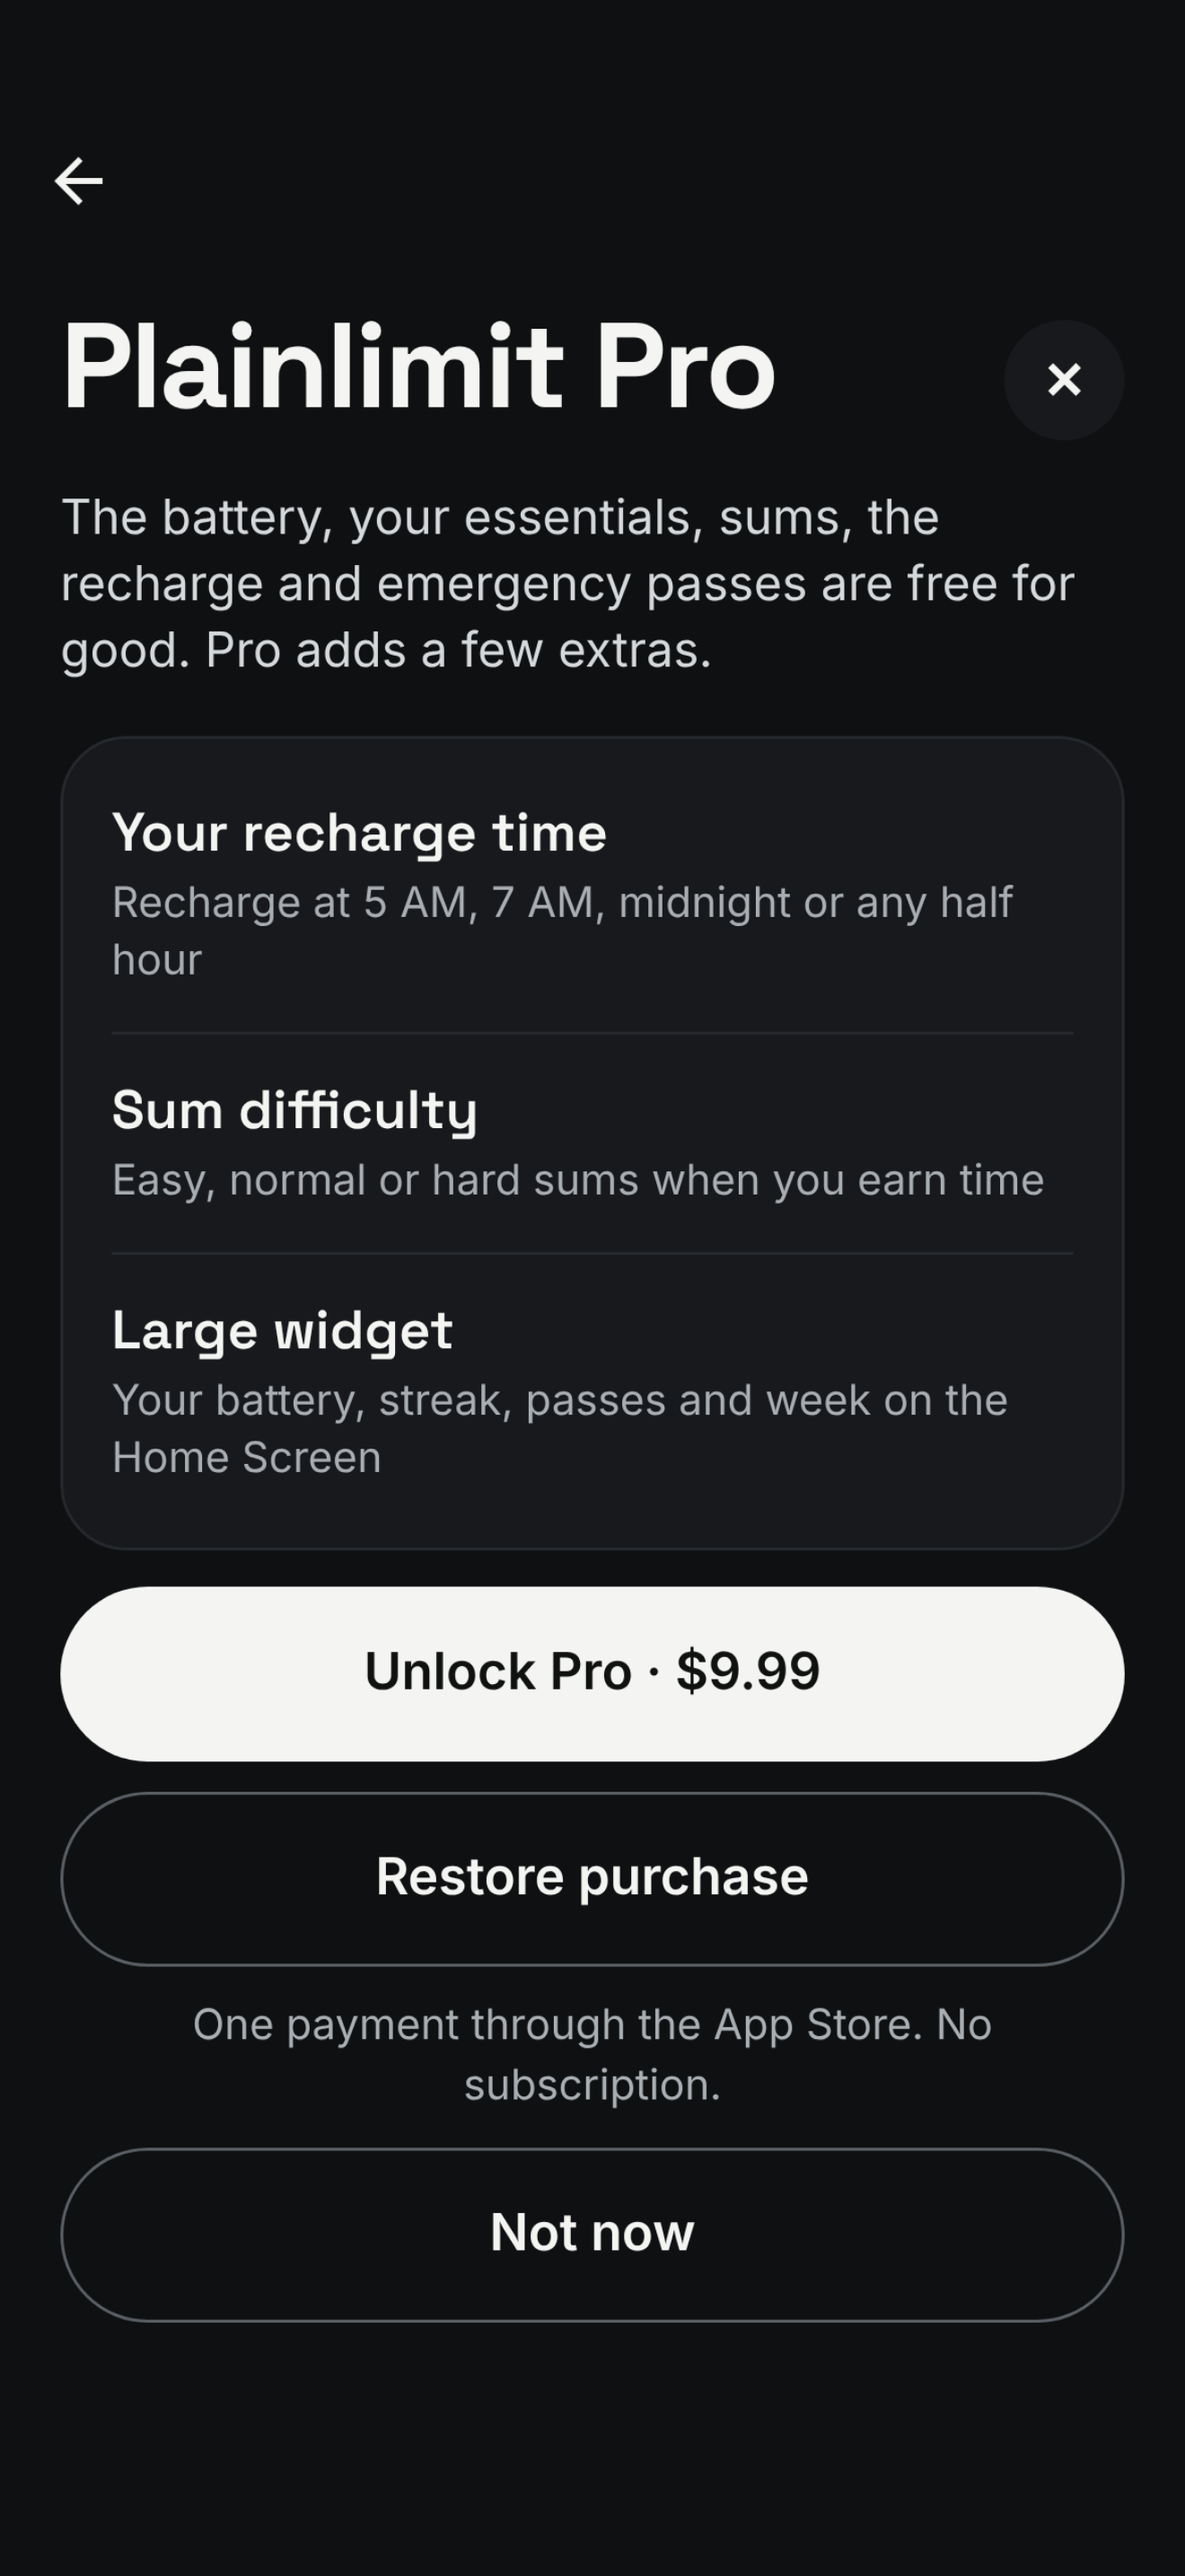
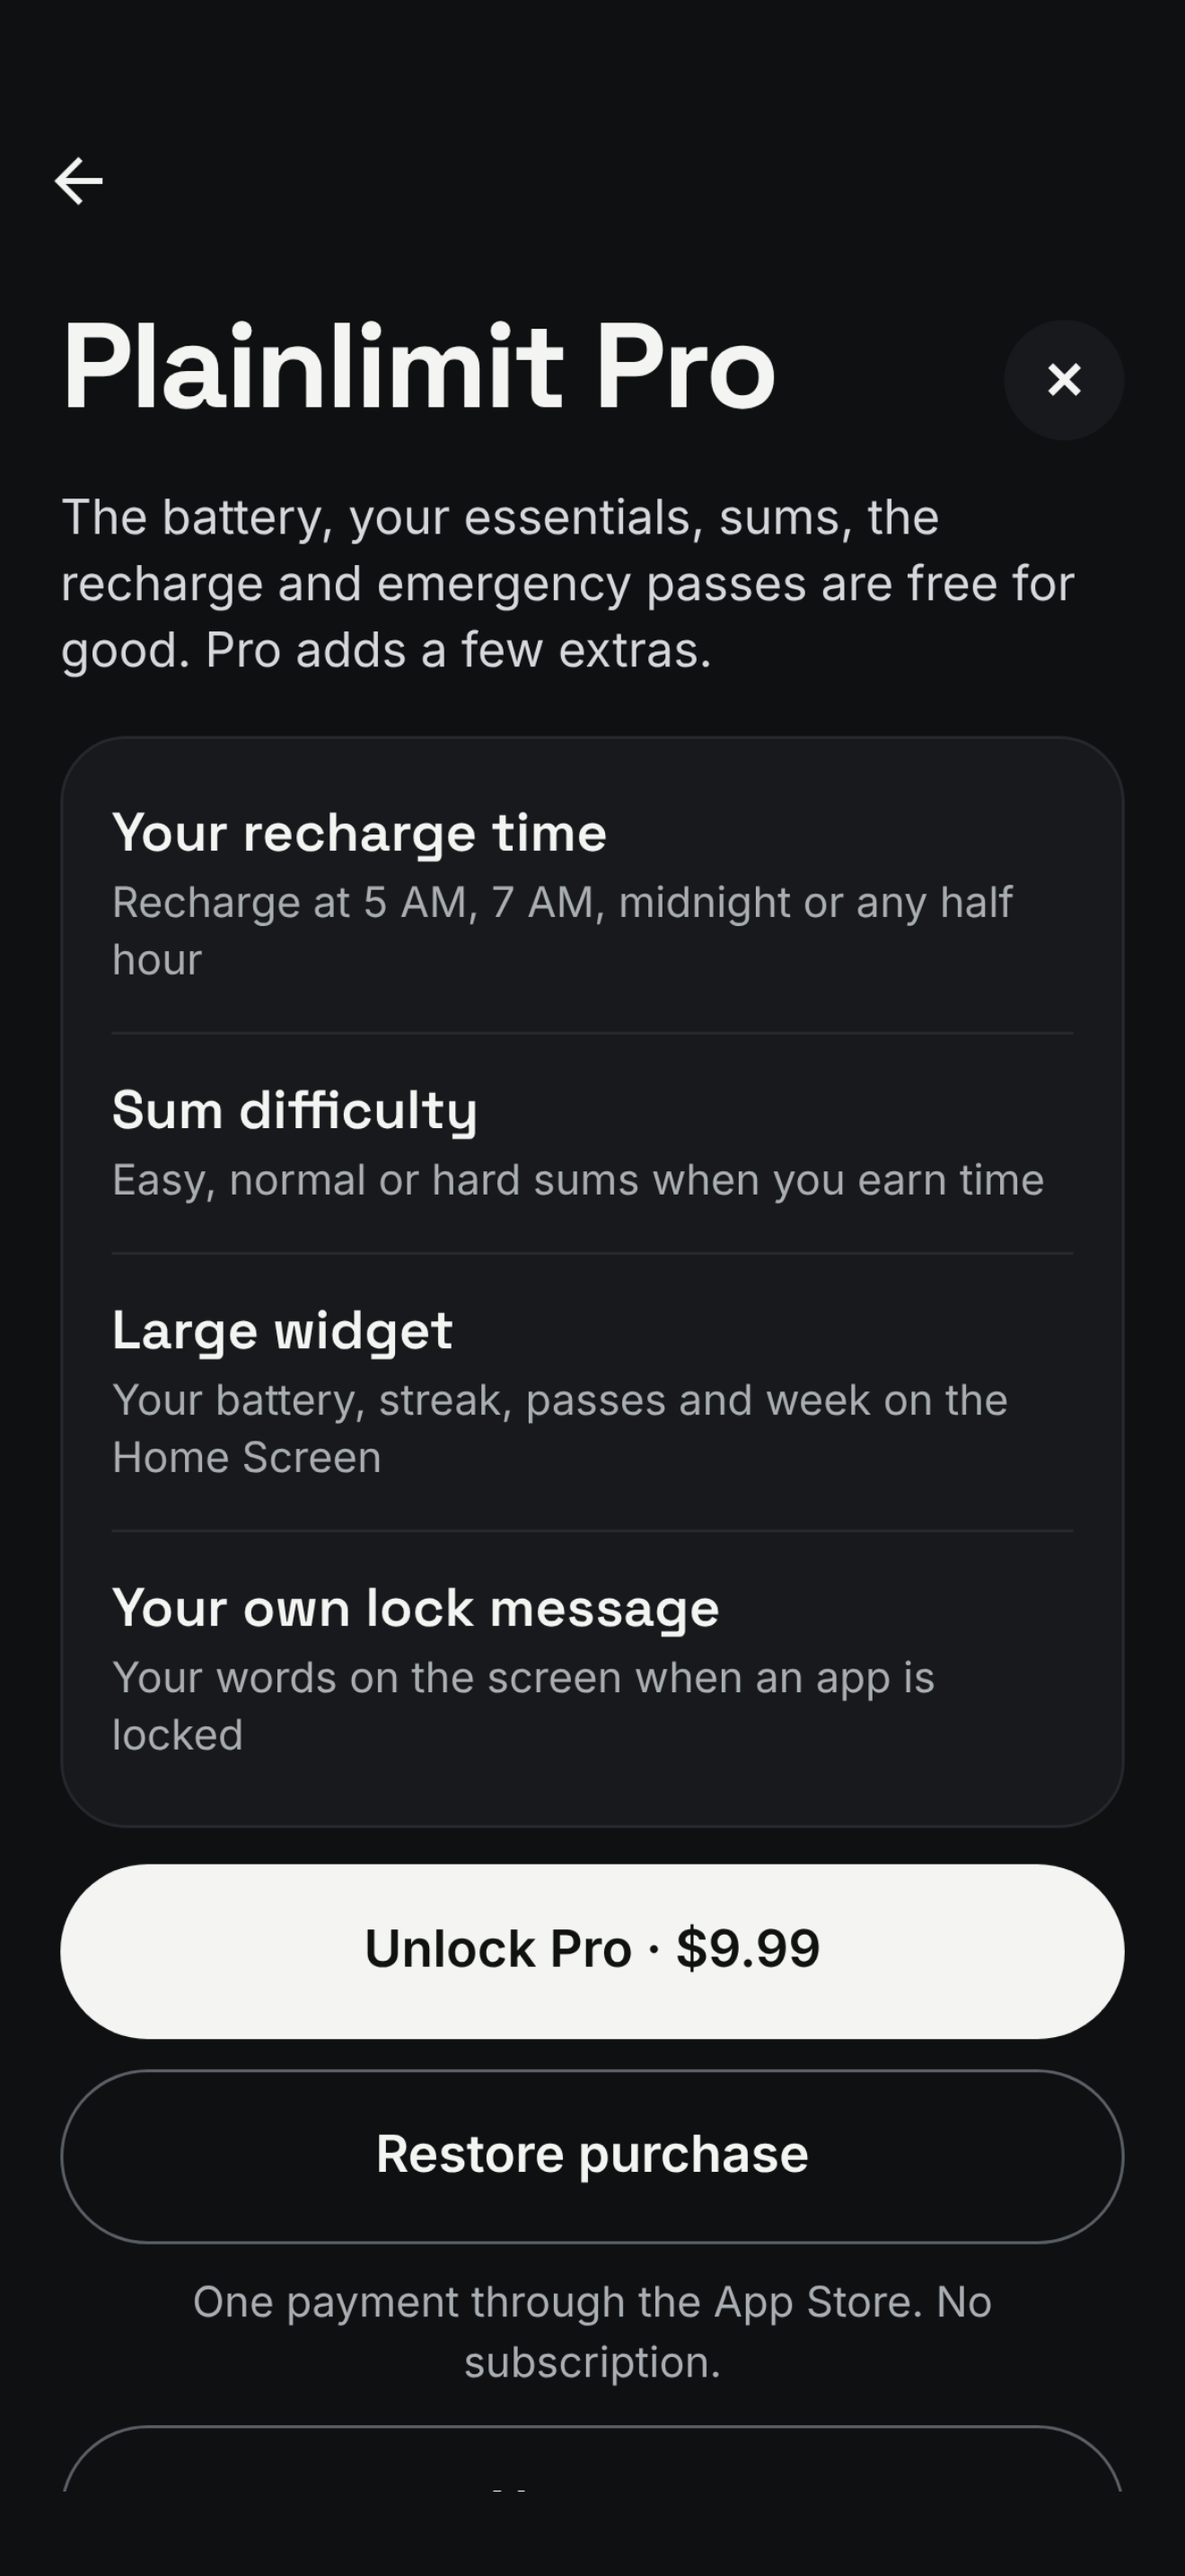
plainlimit 1.1: a lock message in one's own words is Pro
The ready-made lock messages come first and stay free, with 'No message'
among them. Writing one's own comes second and is Pro; a message typed before
stays until it is changed. The Pro screen, the store text and the store
pictures name the fourth Pro feature.

Claude-Session: https://claude.ai/code/session_01P4SSbJ2g8Qq7AhHS6aRZYP

Changed region(s): [[0.0311, 0.5896, 0.9629, 0.931], [0.0311, 0.8379, 0.0932, 0.8689], [0.9318, 0.8379, 0.9629, 0.8689]]

diff --git a/apps/plainlimit/src/app/lock-message.tsx b/apps/plainlimit/src/app/lock-message.tsx
@@ -1,21 +1,26 @@
+import { useRouter } from 'expo-router';
 import { useState } from 'react';
 import { Pressable, StyleSheet, Text, TextInput, View } from 'react-native';
 
 import { emptyCopy } from '@/domain/shield';
-import { LOCK_MESSAGE_MAX } from '@/domain/settings';
+import { LOCK_MESSAGE_IDEAS, LOCK_MESSAGE_MAX, isLockMessageIdea } from '@/domain/settings';
 import { tap } from '@/platform/haptics';
+import { usePro } from '@/pro/pro';
 import { store } from '@/state/store';
 import { Card, Label, Lead, Page, Title } from '@/ui/kit';
 import { c, display } from '@/ui/theme';
 import { useDay } from '@/ui/useDay';
 
-// Settings > Advanced > Lock message: the person's own words on the
-// screen that covers an app once the battery is empty (shield.ts).
-
-const IDEAS = ['What were you about to do instead?', 'You set this limit for a reason.', 'Text someone you miss.', 'Go outside. The feed will still be there tomorrow.'];
+// Settings > Advanced > Lock message: words on the screen that covers an app
+// once the battery is empty (shield.ts). The ready-made messages come first
+// and are free; words of one's own come second and are Pro (the owner,
+// 2026-11-21: "see the defaults, and then change it if they're Pro"). Up to
+// build 116 the text box came first and was free.
 
 export default function LockMessage() {
+  const router = useRouter();
   const { settings, day, accent } = useDay();
+  const isPro = usePro().isPro;
   // Typed text is kept here and saved as it changes, so the cursor never jumps.
   const [text, setText] = useState(settings.lockMessage ?? '');
   const change = (next: string) => {
@@ -24,49 +29,63 @@ export default function LockMessage() {
     store.setLockMessage(one);
   };
   const preview = emptyCopy({ ...settings, lockMessage: text }, day.topUps);
+  // Words of one's own: what is in the box, unless it is one of the ready-made ones.
+  const own = isLockMessageIdea(text) ? '' : text;
 
   return (
     <Page top={8}>
       <Title>Lock message</Title>
-      <Lead>Your own words on the screen you see when an app is locked. Something future you will listen to.</Lead>
-
-      <Card style={{ paddingTop: 14, paddingBottom: 16, gap: 10 }}>
-        <Label>Your message</Label>
-        <TextInput
-          testID="lock-message-input"
-          accessibilityLabel="Your message"
-          value={text}
-          onChangeText={change}
-          placeholder="Leave empty for no message"
-          placeholderTextColor={c.ink3}
-          multiline
-          maxLength={LOCK_MESSAGE_MAX}
-          returnKeyType="done"
-          blurOnSubmit
-          style={[styles.input, { borderColor: text ? accent : c.outline }]}
-        />
-        <View style={styles.counter}>
-          <Text style={styles.small}>Shows when the battery is empty</Text>
-          <Text style={styles.small}>
-            {text.length} / {LOCK_MESSAGE_MAX}
-          </Text>
-        </View>
-      </Card>
+      <Lead>A few words on the screen you see when an app is locked. Something future you will listen to.</Lead>
 
       <Card style={{ paddingTop: 14, paddingBottom: 16, gap: 8 }}>
-        <Label>Or pick one</Label>
-        {IDEAS.map((idea) => (
-          <Pressable
-            key={idea}
-            accessibilityRole="button"
-            onPress={() => {
-              tap();
-              change(idea);
-            }}
-            style={({ pressed }) => [styles.idea, pressed ? { opacity: 0.7 } : null]}>
-            <Text style={styles.ideaText}>{idea}</Text>
-          </Pressable>
+        <Label>Pick one</Label>
+        <Idea words="No message" chosen={text === ''} accent={accent} onPress={() => change('')} />
+        {LOCK_MESSAGE_IDEAS.map((idea) => (
+          <Idea key={idea} words={idea} chosen={text === idea} accent={accent} onPress={() => change(idea)} />
         ))}
+      </Card>
+
+      <Card style={{ paddingTop: 14, paddingBottom: 16, gap: 10 }}>
+        <Label>Or write your own</Label>
+        {isPro ? (
+          <>
+            <TextInput
+              testID="lock-message-input"
+              accessibilityLabel="Your own message"
+              value={own}
+              onChangeText={change}
+              placeholder="Your own words"
+              placeholderTextColor={c.ink3}
+              multiline
+              maxLength={LOCK_MESSAGE_MAX}
+              returnKeyType="done"
+              blurOnSubmit
+              style={[styles.input, { borderColor: own ? accent : c.outline }]}
+            />
+            <View style={styles.counter}>
+              <Text style={styles.small}>Shows when the battery is empty</Text>
+              <Text style={styles.small}>
+                {own.length} / {LOCK_MESSAGE_MAX}
+              </Text>
+            </View>
+          </>
+        ) : (
+          <>
+            {/* Typed before this was Pro: it stays, and can be swapped for a ready-made one. */}
+            {own ? <Text style={styles.kept}>{`\u201C${own}\u201D`}</Text> : null}
+            <Pressable
+              accessibilityRole="button"
+              accessibilityLabel="Write your own, Pro"
+              onPress={() => {
+                tap();
+                router.push('/pro');
+              }}
+              style={({ pressed }) => [styles.idea, styles.proRow, pressed ? { opacity: 0.7 } : null]}>
+              <Text style={styles.ideaText}>Write your own</Text>
+              <Text style={styles.proTag}>Pro</Text>
+            </Pressable>
+          </>
+        )}
       </Card>
 
       <Card style={{ paddingTop: 14, paddingBottom: 16, gap: 6 }}>
@@ -80,12 +99,30 @@ export default function LockMessage() {
   );
 }
 
+function Idea({ words, chosen, accent, onPress }: { words: string; chosen: boolean; accent: string; onPress: () => void }) {
+  return (
+    <Pressable
+      accessibilityRole="button"
+      accessibilityState={{ selected: chosen }}
+      onPress={() => {
+        tap();
+        onPress();
+      }}
+      style={({ pressed }) => [styles.idea, chosen ? { borderColor: accent } : null, pressed ? { opacity: 0.7 } : null]}>
+      <Text style={styles.ideaText}>{words}</Text>
+    </Pressable>
+  );
+}
+
 const styles = StyleSheet.create({
   input: { minHeight: 84, borderRadius: 16, borderWidth: 2, backgroundColor: c.ground, color: c.ink, padding: 14, fontSize: 17, lineHeight: 23, textAlignVertical: 'top' },
   counter: { flexDirection: 'row', justifyContent: 'space-between', gap: 12 },
   small: { fontSize: 13, color: c.ink3 },
-  idea: { backgroundColor: c.raised, borderRadius: 14, paddingVertical: 12, paddingHorizontal: 14, minHeight: 44, justifyContent: 'center' },
-  ideaText: { fontSize: 15, lineHeight: 20, color: c.ink },
+  idea: { backgroundColor: c.raised, borderRadius: 14, borderWidth: 2, borderColor: c.raised, paddingVertical: 12, paddingHorizontal: 14, minHeight: 48, justifyContent: 'center' },
+  ideaText: { flex: 1, fontSize: 15, lineHeight: 20, color: c.ink },
+  proRow: { flexDirection: 'row', alignItems: 'center', gap: 10 },
+  proTag: { fontSize: 13, fontWeight: '700', color: c.ink3 },
+  kept: { fontSize: 15, lineHeight: 21, color: c.ink2 },
   previewTitle: { fontFamily: display.semi, fontSize: 20, color: c.ink },
   previewLine: { fontSize: 15, lineHeight: 21, color: c.ink2 },
 });

diff --git a/apps/plainlimit/src/state/__tests__/store.test.ts b/apps/plainlimit/src/state/__tests__/store.test.ts
@@ -359,7 +359,7 @@ describe('emergency passes', () => {
 describe('Pro', () => {
   const withAsk = (on: boolean) => saved(30, { settings: { goalMinutes: 180, rechargeMinute: 360, countMode: 'custom', emptyLevel: 'work', allowed: [], askFirst: { on, openMinutes: 10 } } });
 
-  it('without it, the recharge time stays and sums stay normal; Second thought and the lock message are free', async () => {
+  it('without it, the recharge time stays and sums stay normal; Second thought and the ready-made lock messages are free, own words are not', async () => {
     const phone = fakePhone();
     const { store } = load(phone, saved(30));
     await store.start();
@@ -371,8 +371,20 @@ describe('Pro', () => {
     store.setAskFirst({ on: true, openMinutes: 15 });
     expect(store.get().doc.settings.askFirst).toEqual({ on: true, openMinutes: 15 });
     store.setLockMessage('  Go   outside. ');
+    expect(store.get().doc.settings.lockMessage).toBeUndefined();
+    store.setLockMessage('  Text someone   you miss. ');
+    expect(store.get().doc.settings.lockMessage).toBe('Text someone you miss.');
+    expect(phone.refreshScreens).toHaveBeenCalledWith(expect.objectContaining({ lockMessage: 'Text someone you miss.' }), 0);
+    store.setLockMessage('');
+    expect(store.get().doc.settings.lockMessage).toBeUndefined();
+  });
+
+  it('with it, the lock message can be words of one\'s own', async () => {
+    const { store } = load(fakePhone(), saved(30));
+    await store.start();
+    store.setPro(true, true);
+    store.setLockMessage('  Go   outside. ');
     expect(store.get().doc.settings.lockMessage).toBe('Go outside.');
-    expect(phone.refreshScreens).toHaveBeenCalledWith(expect.objectContaining({ lockMessage: 'Go outside.' }), 0);
   });
 
   it('with it, the recharge time and the sums change', async () => {
@@ -395,6 +407,7 @@ describe('Pro', () => {
   it('leaves Second thought and the lock message alone when the phone is known not to have Pro', async () => {
     const { store } = load(fakePhone(), withAsk(true));
     await store.start();
+    store.setPro(true, true);
     store.setLockMessage('Go outside.');
     store.setPro(false, true);
     expect(store.get().doc.settings.askFirst?.on).toBe(true);

diff --git a/apps/plainlimit/src/domain/pro.ts b/apps/plainlimit/src/domain/pro.ts
@@ -1,10 +1,10 @@
 // What Plainlimit Pro adds, and how a setting reads for someone without it.
 // The battery, Essentials, sums, the recharge, the settings lock, emergency
 // passes, the widget and the week stay free for good (the owner, 2026-11-17).
-// Pro in 1.1 is three things that have been tried on a phone: the recharge
-// time, sum difficulty and the large widget. Second thought and the lock
-// message are free until they have been too; then they move to Pro (the
-// owner, 2026-11-18).
+// Pro in 1.1 is the recharge time, sum difficulty, the large widget (the
+// owner, 2026-11-18) and a lock message in one's own words (2026-11-21; the
+// ready-made messages stay free). Second thought is free until it has been
+// tried on a phone; then it moves to Pro.
 
 import type { SumLevel } from './puzzle';
 import type { RecordView } from './record';
@@ -15,6 +15,7 @@ export const PRO_FEATURES: readonly { title: string; line: string }[] = [
   { title: 'Your recharge time', line: 'Recharge at 5 AM, 7 AM, midnight or any half hour' },
   { title: 'Sum difficulty', line: 'Easy, normal or hard sums when you earn time' },
   { title: 'Large widget', line: 'Your battery, streak, passes and week on the Home Screen' },
+  { title: 'Your own lock message', line: 'Your words on the screen when an app is locked' },
 ];
 
 /** The sums someone gets: their choice with Pro, normal without it (a refund falls back to normal). */

diff --git a/apps/plainlimit/src/state/store.ts b/apps/plainlimit/src/state/store.ts
@@ -7,7 +7,7 @@ import { widgetRecord } from '@/domain/pro';
 import { addWeeklyPasses, freshRecord, passActive, passCheck, recordView, spendPass } from '@/domain/record';
 import { clockLabel, nextRecharge } from '@/domain/day';
 import { advance, freshDoc, grantTopUp, isUnlocked, repairDoc, rollOver, withUse, freshDay } from '@/domain/dayState';
-import { cleanLockMessage, stepGoal, stepRecharge } from '@/domain/settings';
+import { cleanLockMessage, stepGoal, stepRecharge, isLockMessageIdea } from '@/domain/settings';
 import type { SumLevel } from '@/domain/puzzle';
 import type { DayState, DaySummary, Doc, EmptyLevel, Settings } from '@/domain/types';
 import { applyAskFirst, openAsk } from '@/platform/askFirst';
@@ -509,6 +509,9 @@ export const store = {
    */
   setLockMessage(text: string) {
     const lockMessage = cleanLockMessage(text);
+    // Words of one's own are Pro; the ready-made messages and no message are free.
+    // A message typed before this was Pro stays until it is changed.
+    if (lockMessage && !isLockMessageIdea(lockMessage) && !proOn) return;
     const { lockMessage: _old, ...rest } = snapshot.doc.settings;
     const settings: Settings = lockMessage ? { ...rest, lockMessage } : rest;
     set({ ...snapshot.doc, settings });

diff --git a/apps/plainlimit/src/domain/settings.ts b/apps/plainlimit/src/domain/settings.ts
@@ -14,6 +14,17 @@ export const ALLOWED_MAX = 12;
 /** The longest lock screen message: one or two lines on Apple's lock screen. */
 export const LOCK_MESSAGE_MAX = 80;
 
+/**
+ * Ready-made lock screen messages, free for everyone. Words of one's own are
+ * Pro (the owner, 2026-11-21: show the ready-made ones first, then let Pro
+ * change them).
+ */
+export const LOCK_MESSAGE_IDEAS: readonly string[] = ['What were you about to do instead?', 'You set this limit for a reason.', 'Text someone you miss.', 'Go outside. The feed will still be there tomorrow.'];
+
+export function isLockMessageIdea(text: string): boolean {
+  return LOCK_MESSAGE_IDEAS.includes(text);
+}
+
 /** Tidies a lock screen message: one line, no outer spaces, at most LOCK_MESSAGE_MAX characters. */
 export function cleanLockMessage(text: string): string {
   return text.replace(/\s+/g, ' ').trim().slice(0, LOCK_MESSAGE_MAX).trim();
